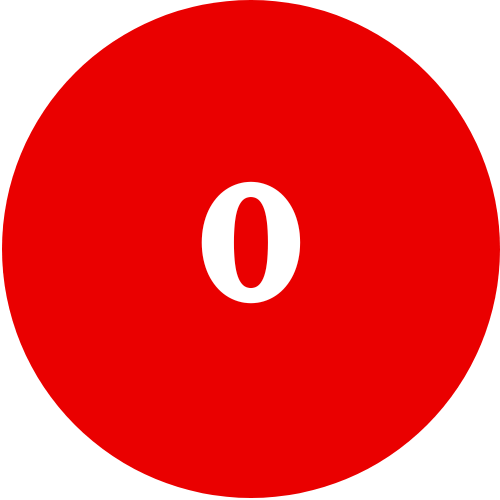
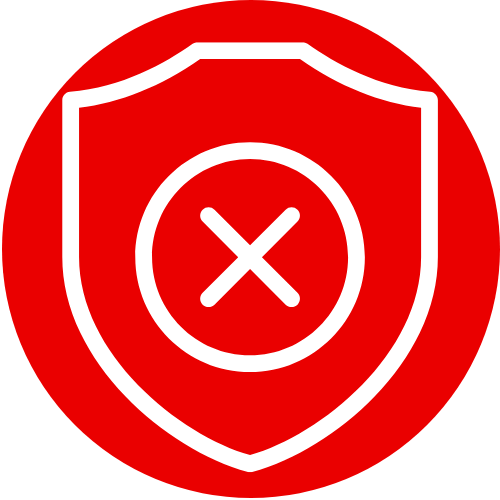
updated ui

Changed region(s): [[0.12, 0.06, 0.9, 0.96], [0.27, 0.27, 0.75, 0.75], [0.39, 0.36, 0.6, 0.63]]

diff --git a/extension/popup/popup.js b/extension/popup/popup.js
@@ -1,15 +1,31 @@
 const checkSafetyElement = document.getElementById("checkSafety");
 const tajukElement = document.getElementById("tajuk");
+const containerElement = document.querySelector(".container");
+const imageElement = document.getElementById("logo"); 
+const loadingContainer = document.getElementById("loadingContainer"); // Added for the loading container
+const loadingBar = document.getElementById("loadingBar");
+
+const showLoadingBar = () => {
+  loadingContainer.style.display = 'block'; // Show the loading bar container
+  loadingBar.style.width = '0%'; // Reset the width before starting
+};
+
+const updateLoadingBar = (progress) => {
+  loadingBar.style.width = `${progress}%`; // Update the loading bar width
+};
+
+const hideLoadingBar = () => {
+  loadingContainer.style.display = 'none'; // Hide the loading bar when done
+};
 
 const hideElement = (elem) => {
-  elem.style.display = 'none';
+  elem.style.display = 'none'; // Hide the element
 };
 
 const showElement = (elem) => {
-  elem.style.display = '';
+  elem.style.display = ''; // Show the element
 };
 
-// Get current URL
 const getURL = () => {
   return new Promise((resolve, reject) => {
     chrome.tabs.query({ active: true, currentWindow: true }, (tabs) => {
@@ -37,6 +53,7 @@ const fetchAndProcessURL = async () => {
         if (chrome.runtime.lastError) {
           console.error(chrome.runtime.lastError);
           tajukElement.innerText = "Error extracting text.";
+          hideLoadingBar();
           return;
         }
 
@@ -52,24 +69,40 @@ const fetchAndProcessURL = async () => {
             if (response.error) {
               tajukElement.innerText = "Error: " + response.error;
             } else {
-              const result = response.data; // Store response data
+              const result = response.data;
+              imageElement.style.width = "100px"; // Set the width of the image (you can change the value)
+              imageElement.style.height = "100px";
               tajukElement.innerHTML = `
+                  <p><strong>Our Prediction</p></strong>
                   <p><strong>URL Prediction:</strong> ${result.url_prediction}</p>
                   <p><strong>Text Prediction:</strong> ${result.text_prediction}</p>
                   <p><strong>VirusTotal Report:</strong> ${result.report_result.message}</p>
               `;
+              // Replace logo based on the result
+              if (result.url_prediction === "Safe" && result.text_prediction === "Safe") {
+                imageElement.src = "../images/safe.png"; // Safe logo image
+              } else if (result.url_prediction === "harmful" || result.text_prediction === "safe") { 
+                imageElement.src = "../images/cautios.png"; // Safe logo image
+              }
+              else {
+                imageElement.src = "../images/harmful.png"; // Unsafe logo image
+              }
             }
-
             // Re-enable the button after response
             checkSafetyElement.disabled = false;
             checkSafetyElement.innerText = "Check Again";
             showElement(checkSafetyElement);
+            showElement(containerElement);
+
+            // Hide the loading bar when done
+            hideLoadingBar();
           }
         );
       }
     );
   } catch (err) {
     tajukElement.innerText = "Error fetching URL.";
+    hideLoadingBar(); // Hide loading bar on error
   }
 };
 
@@ -83,7 +116,7 @@ const getCurrentTab = async () => {
 // Function to scrape content from page
 function scrapeContentFromPage(){
   
-  //Parse contents from the HTML page
+  // Parse contents from the HTML page
   let pageText = document.body.innerText;
   let currentURL = window.location.href;
 
@@ -91,22 +124,31 @@ function scrapeContentFromPage(){
   chrome.runtime.sendMessage({type: "scrapedData", pageText, url: currentURL});
 }
 
-//Button event
+// Button event
 checkSafetyElement.onclick = async() => {
-  console.log("Button clicked");
 
-  // Hide the button while loading
-  hideElement(checkSafetyElement);
+  // Show the loading bar and start the progress
+  showLoadingBar(); 
 
-  // Call the function to fetch and process the URL
-  fetchAndProcessURL();
+  // Simulate a long process with setInterval to update the progress
+  let progress = 0;
+  const interval = setInterval(() => {
+    progress += 10;
+    updateLoadingBar(progress);
+    if (progress >= 100) {
+      clearInterval(interval);
+    }
+  }, 500);
+
+  checkSafetyElement.innerText = "Processing...";
 
   // Get current active tab
-  let [tab] = await chrome.tabs.query({active: true, currentWindow: true})
+  let [tab] = await chrome.tabs.query({active: true, currentWindow: true});
 
-  // Execute script to parse emails on page
+  fetchAndProcessURL();
+
   chrome.scripting.executeScript({
     target: {tabId: tab.id},
     func: scrapeContentFromPage,
-  })
+  });
 };

diff --git a/extension/popup/style.css b/extension/popup/style.css
@@ -1,9 +1,17 @@
 body {
-    min-width: 200px;  
+    min-width: 250px;  
     max-width: 500px;
     max-height: 600px;
     overflow: auto;   
-    padding: 10px;
+    padding: 7px;
+}
+
+.container {
+    display: flex;
+    flex-direction: column; /* Stack elements vertically */
+    justify-content: center; /* Center elements vertically */
+    align-items: center; /* Center elements horizontally */
+    text-align: center; /* Make sure text inside elements is centered */
 }
 
 h1 {
@@ -11,5 +19,38 @@ h1 {
 }
 
 p {
-    font-size: 14px;
+    font-size: 17px;
+}
+
+#checkSafety {
+    background-color: #1d89df;
+    color: white;
+    padding: 10px 20px;
+    border: none;
+    cursor: pointer;
+    border-radius: 5px;
+    font-size: 17px;
+}
+
+#logo {
+    width: 59px;
+    height: auto;
+}
+
+.loading-container {
+    width: 100%;
+    background-color: #e0e0e0;
+    height: 20px;
+    margin-top: 20px;
+    border-radius: 5px;
+    display: none; /* Hidden initially */
+}
+
+/* Loading bar (progress) */
+.loading-bar {
+    width: 0%; /* Start with no progress */
+    height: 100%;
+    background-color: #4caf50; /* Green color for the progress bar */
+    border-radius: 5px;
+    transition: width 0.5s ease;
 }

diff --git a/extension/popup/popup.html b/extension/popup/popup.html
@@ -3,13 +3,17 @@
 <head>
     <meta charset="UTF-8">
     <meta name="viewport" content="width=device-width, initial-scale=1.0">
-    <title>Check Site's Legitimacy</title>
     <link rel="stylesheet" href="style.css"/>
 </head>
 <body>
     <div class="container m=3">
+        <img src="../images/logo.png" id="logo">
         <p id="tajuk">Are you sure this website is safe?</p>
-        <button id="checkSafety" class="button is-success is-fullwidth m-4">Check Site Safety</button>
+        <button id="checkSafety" class="button">Check Site Safety</button>
+        
+        <div id="loadingContainer" class="loading-container" style="display: none;">
+            <div id="loadingBar" class="loading-bar"></div>
+        </div>
     </div> 
 
 </body>

diff --git a/extension/background.js b/extension/background.js
@@ -1,6 +1,5 @@
 chrome.runtime.onMessage.addListener((message, sender, sendResponse) => {
   if (message.type === "checkSafety") {
-
       // Make the fetch request to your Flask server here
       fetch("http://127.0.0.1:5000/scan", {
           method: "POST",

diff --git a/extension/app.py b/extension/app.py
@@ -16,9 +16,9 @@ api_key = "f3d96da5d258d0b8f0c6e699e73e4268f626a5749fea1e8ea763612394fb71a7"
 url_scan = "https://www.virustotal.com/api/v3/urls"
 url_analysis = "https://www.virustotal.com/api/v3/analyses"
 
-clf = joblib.load("model.pkl")
-vectorizer = joblib.load("vectorizer.pkl")
-label_encoder = joblib.load("label_encoder.pkl")
+clf = joblib.load("model/model.pkl")
+vectorizer = joblib.load("model/vectorizer.pkl")
+label_encoder = joblib.load("model/label_encoder.pkl")
 
 # Function to scan a URL using VirusTotal API
 def scan_url(url):
@@ -52,7 +52,6 @@ def report_result(scan_result, url):
 
     analysis_results = analysis_result.get('data', {}).get('attributes', {}).get('results', {})
 
-    # Initialize dictionaries to count occurrences of categories and results
     category_counts = {}
     result_counts = {}
     flagged_results = []
@@ -84,7 +83,7 @@ def report_result(scan_result, url):
 
 # Function to get analysis using the ID returned from the scan
 def get_analysis(id):
-    print(f"Fetching analysis for ID: {id}")  # Debugging log for fetching the analysis
+    print(f"Fetching analysis for ID: {id}") 
 
     headers = {
         "x-apikey": api_key
@@ -113,7 +112,7 @@ def predict(content):
 
     decision_predicted_class = label_encoder.inverse_transform(decision_prediction)
 
-    return f"Prediction for: '{content}' -> {decision_predicted_class[0]}"
+    return decision_predicted_class[0]
 
 @app.route('/scan', methods=['POST'])
 def scan():
